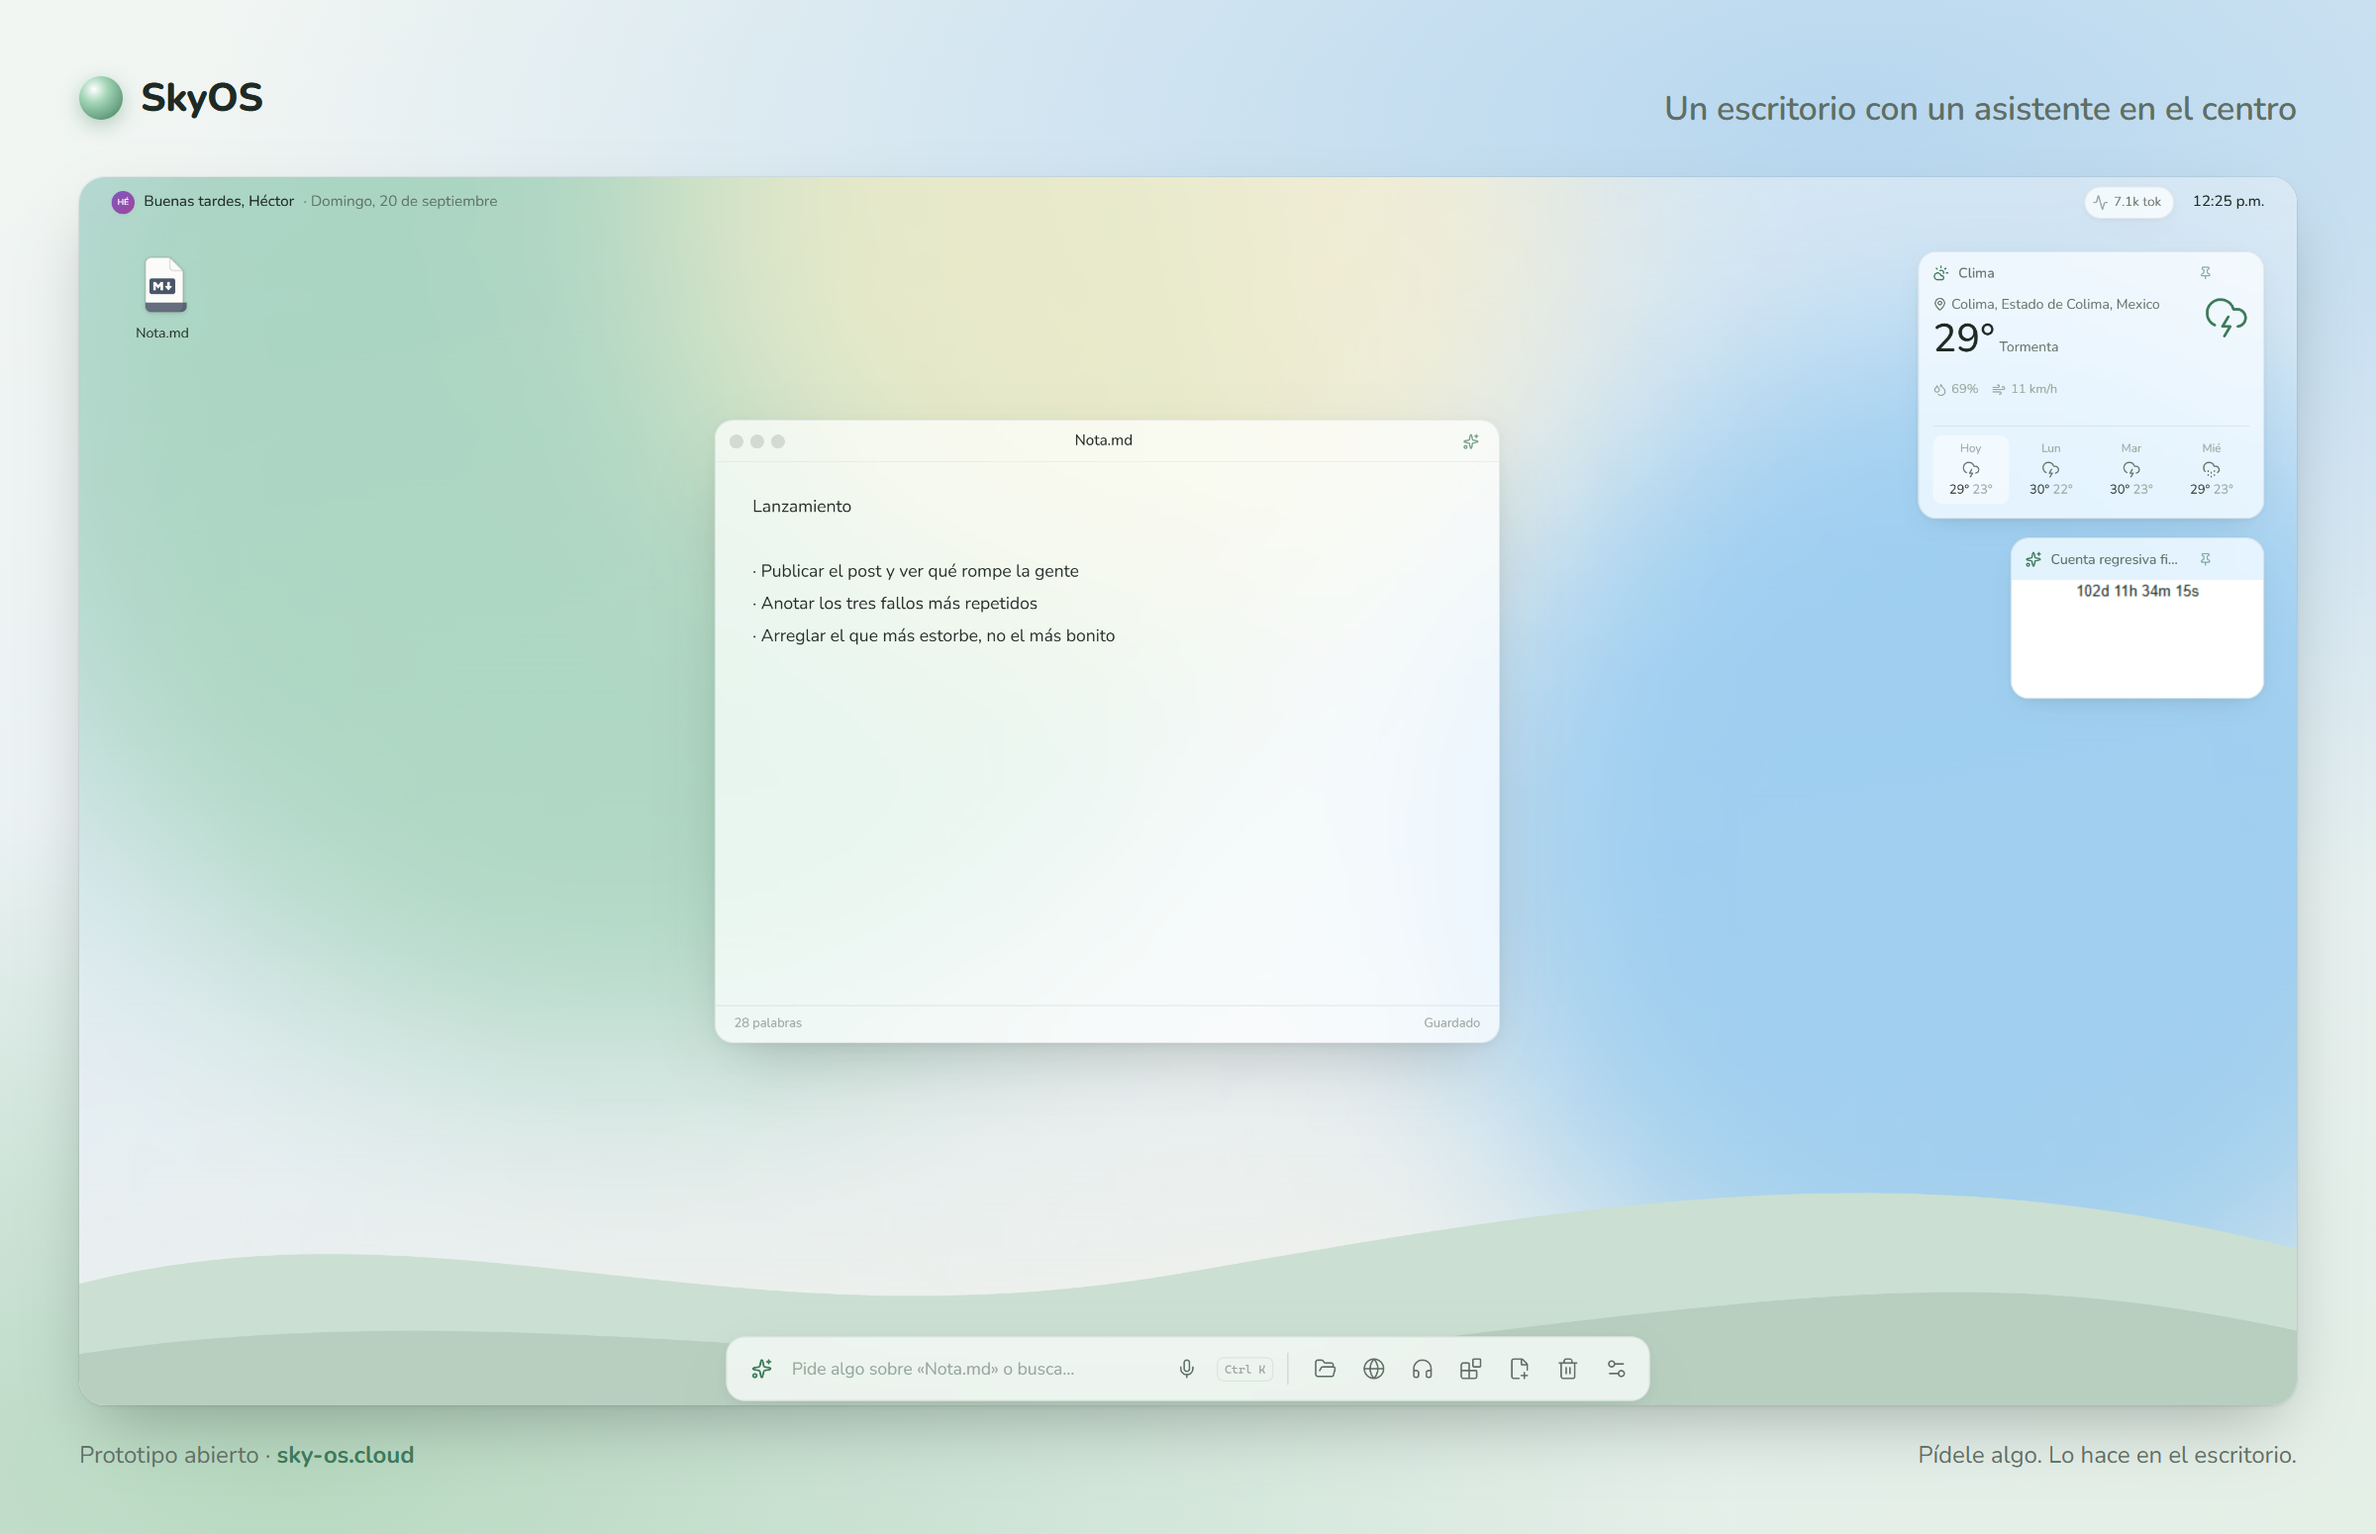
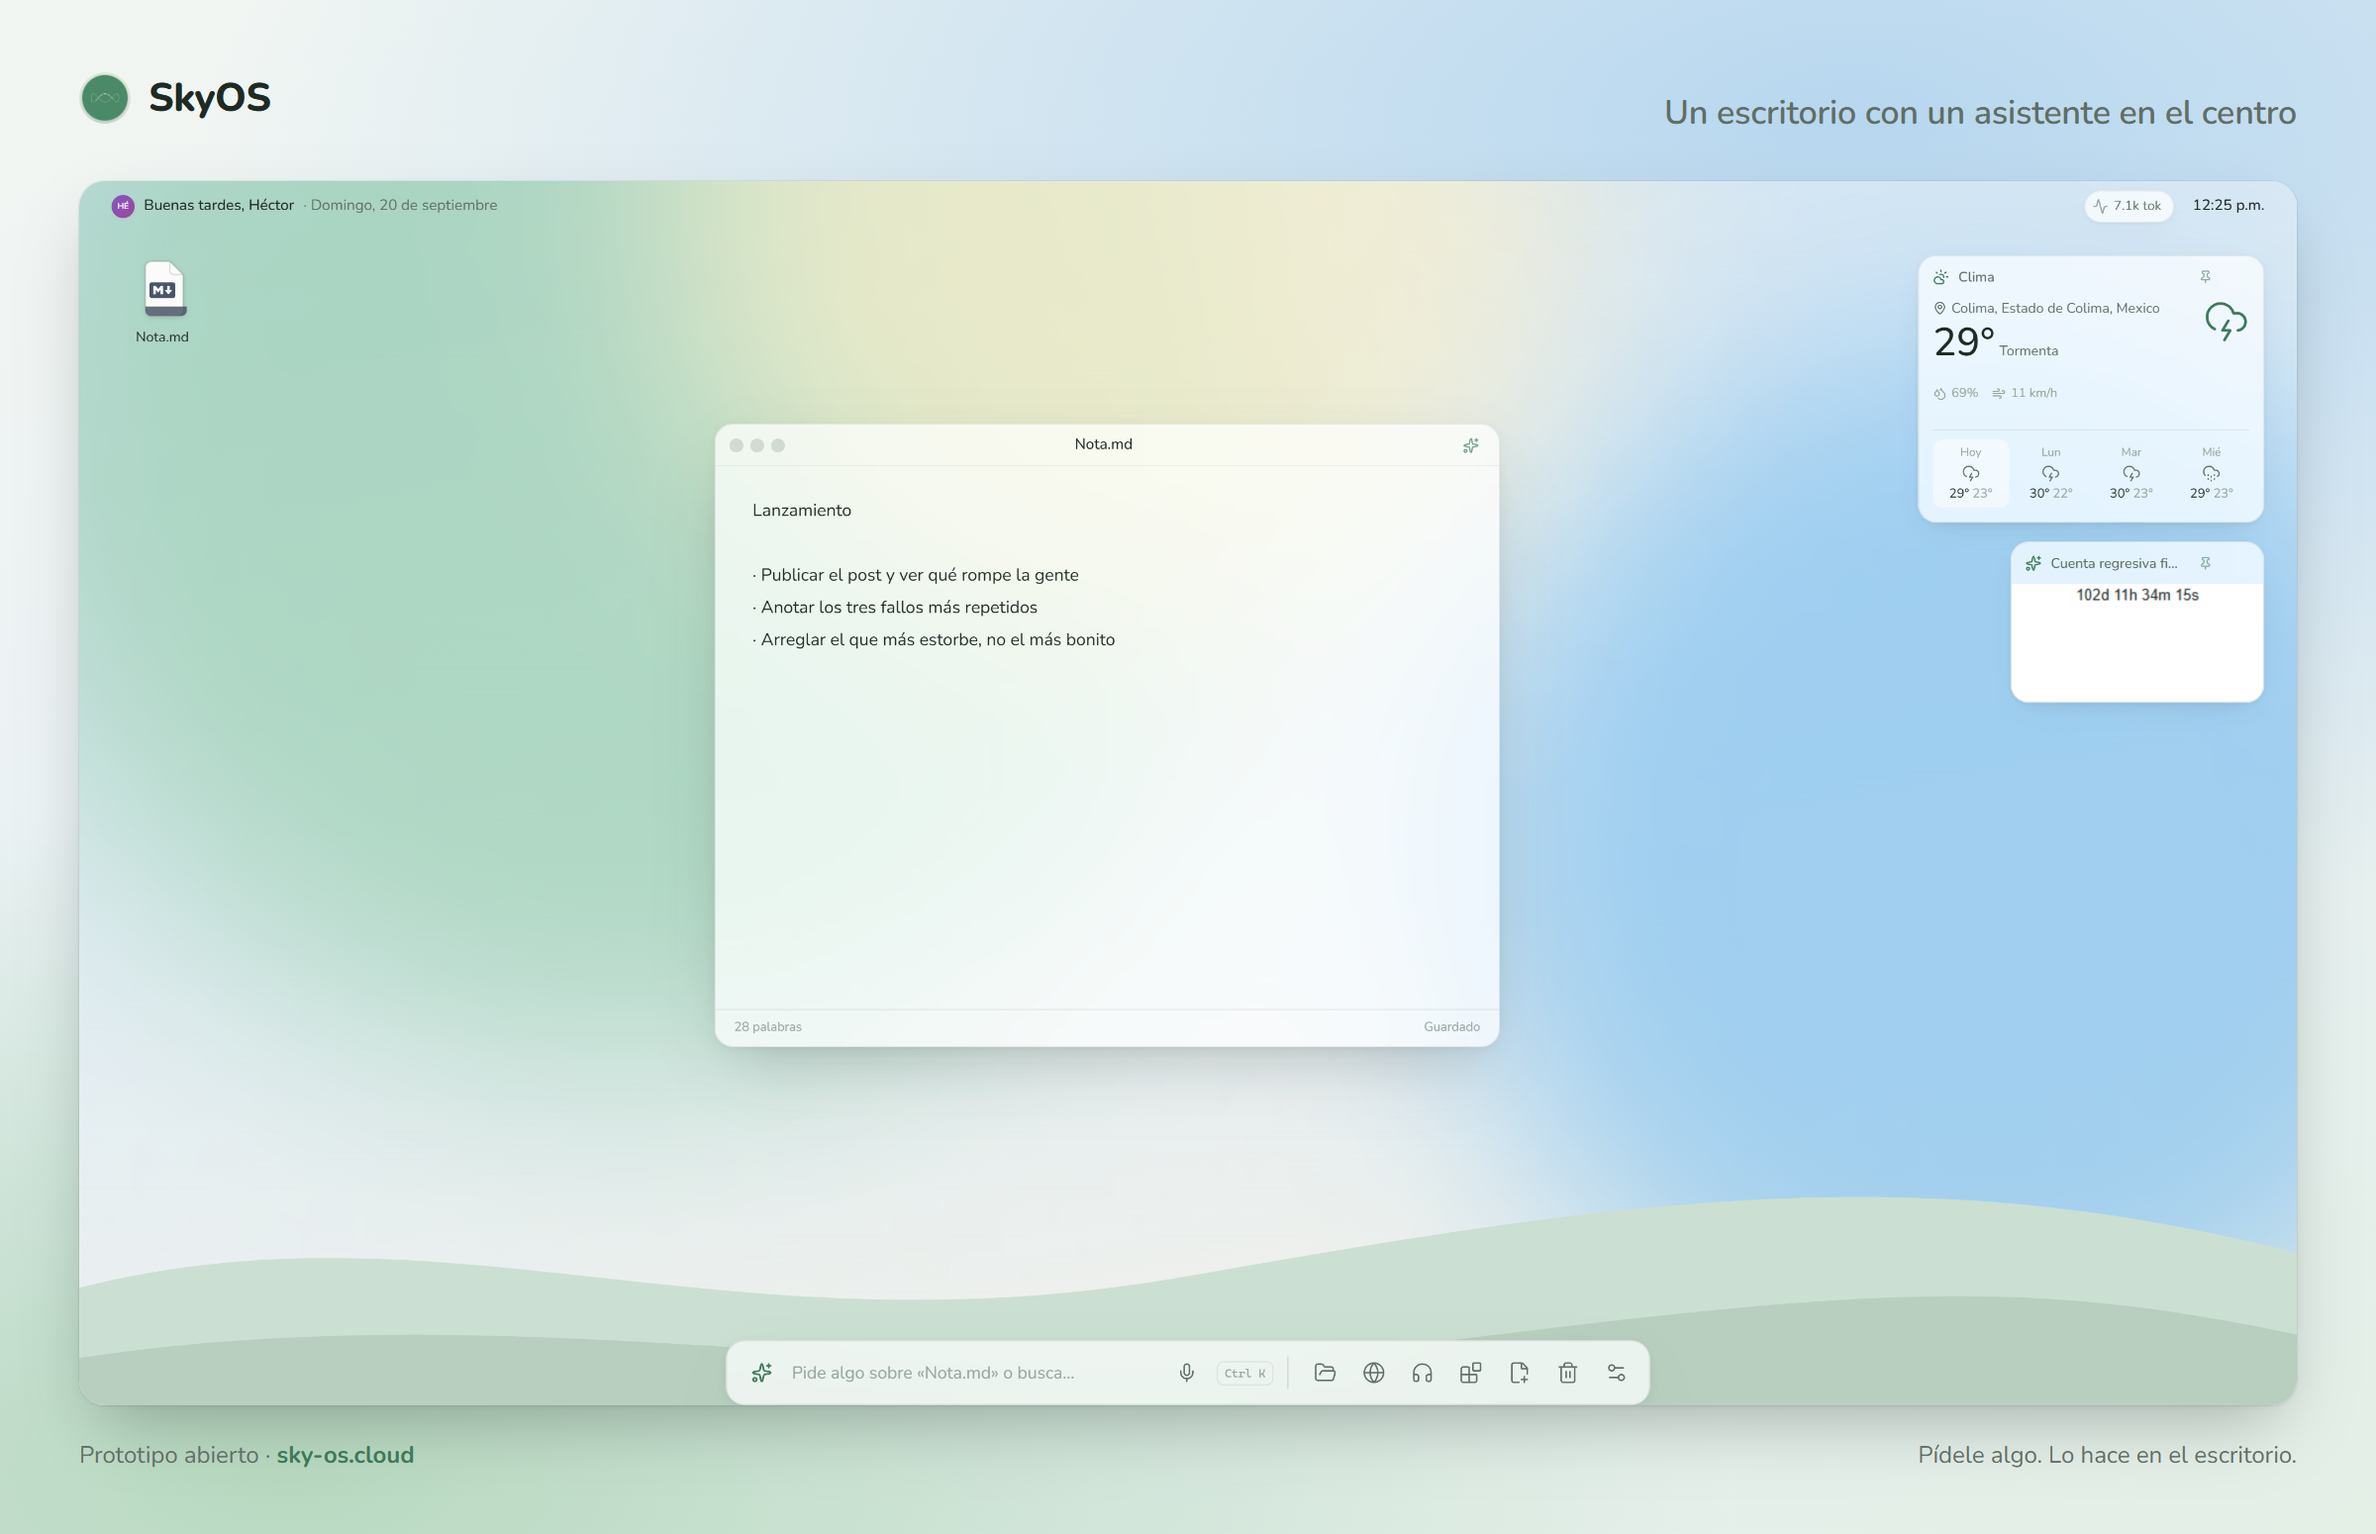
Las imágenes llevan el orbe del sistema, recortado de su pantalla de inicio, y entra esa pantalla como imagen

diff --git a/docs/prensa/README.md b/docs/prensa/README.md
@@ -1,14 +1,17 @@
 # Imágenes para contar SkyOS
 
 Capturas reales del escritorio, no montajes: un perfil local recién creado, con la conversación y los widgets que
-salieron de pedirle cosas a Sky. Hechas el 20 de septiembre de 2026 con la versión de ese día.
+salieron de pedirle cosas a Sky. Hechas el 20 de septiembre de 2026. El orbe de la cabecera está recortado de la
+propia pantalla de inicio, así que es el del sistema y no un dibujo parecido.
 
 | Archivo | Qué se ve | Tamaño |
 | --- | --- | --- |
+| `skyos-inicio.png` | La pantalla de inicio: «Hola. Soy Sky. Solo necesito tu nombre.» | 2400×1550 |
 | `skyos-escritorio-sky.png` | Sky contestando el tiempo de mañana y creando un widget de cuenta regresiva | 2400×1550 |
-| `skyos-escritorio-nota.png` | Una nota abierta, el archivo en el escritorio y los widgets | 2400×1550 |
-| `skyos-captura-1920.png` | La captura sola, sin marco ni textos | 3840×2160 |
+| `skyos-escritorio-nota.png` | Una nota abierta, su archivo en el escritorio y los widgets | 2400×1550 |
+| `skyos-inicio-1920.png` | La pantalla de inicio sola, sin marco ni textos | 3840×2160 |
+| `orbe.png` | El orbe recortado, para cabeceras y avatares | 432×432 |
 
 Cómo se rehacen: `.env.shot.local` con las variables de Supabase en blanco (cuentas apagadas, perfil local),
 `npx vite --mode shot --port 4183`, y Chrome sin ventana con `--remote-debugging-port` manejado por el protocolo
-de DevTools. Los guiones quedaron en el scratchpad de la sesión; están descritos en `docs/auditoria/CONTINUAR.md`.
+de DevTools. El procedimiento está descrito en `docs/auditoria/CONTINUAR.md`.
